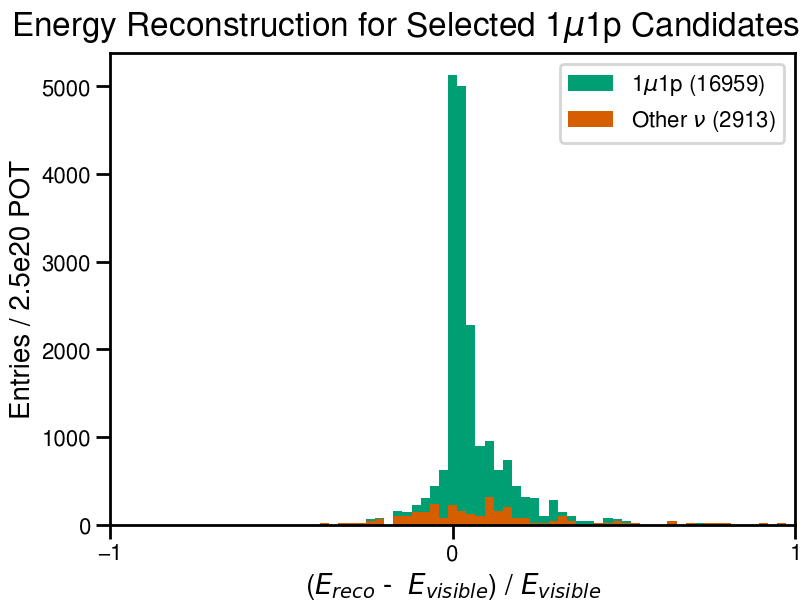
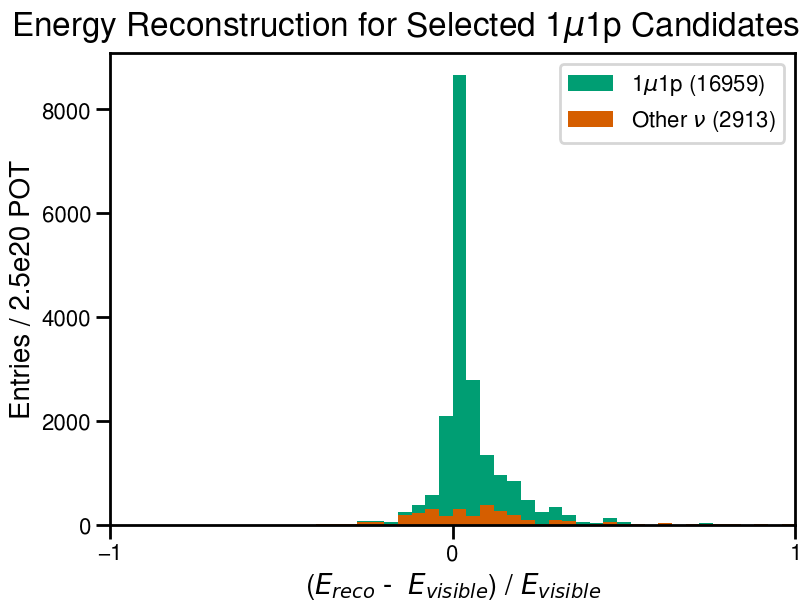
Updated reconstructed energy plots to break N proton category into 1 proton and 2+ protons

diff --git a/analysis.C b/analysis.C
@@ -30,17 +30,19 @@ void analysis()
     spectra.add_spectrum1d("sCountPrimaries", Binning::Simple(20, 0, 20), kCountPrimaries);
     spectra.add_spectrum1d("sCountParticlesTruth", Binning::Simple(20, 0, 20), kCountParticlesTruth);
     spectra.add_spectrum1d("sCountPrimariesTruth", Binning::Simple(20, 0, 20), kCountPrimariesTruth);
-    spectra.add_spectrum1d("sEnergy_1mu1p_signal_bias", Binning::Simple(75,-1,1), kEnergy_1mu1p_signal_bias);
-    spectra.add_spectrum1d("sEnergy_1mu1p_othernu_bias", Binning::Simple(75,-1,1), kEnergy_1mu1p_othernu_bias);
-    spectra.add_spectrum1d("sEnergy_1mu1p_cosmic_bias", Binning::Simple(75,-1,1), kEnergy_1mu1p_cosmic_bias);
-    spectra.add_spectrum1d("sEnergy_1muNp_signal_bias", Binning::Simple(75,-1,1), kEnergy_1muNp_signal_bias);
-    spectra.add_spectrum1d("sEnergy_1muNp_othernu_bias", Binning::Simple(75,-1,1), kEnergy_1muNp_othernu_bias);
-    spectra.add_spectrum1d("sEnergy_1muNp_cosmic_bias", Binning::Simple(75,-1,1), kEnergy_1muNp_cosmic_bias);
+    spectra.add_spectrum1d("sEnergy_1mu1p_signal_bias", Binning::Simple(50,-1,1), kEnergy_1mu1p_signal_bias);
+    spectra.add_spectrum1d("sEnergy_1mu1p_othernu_bias", Binning::Simple(50,-1,1), kEnergy_1mu1p_othernu_bias);
+    spectra.add_spectrum1d("sEnergy_1mu1p_cosmic_bias", Binning::Simple(50,-1,1), kEnergy_1mu1p_cosmic_bias);
+    spectra.add_spectrum1d("sEnergy_1muNp_1p_signal_bias", Binning::Simple(50,-1,1), kEnergy_1muNp_1p_signal_bias);
+    spectra.add_spectrum1d("sEnergy_1muNp_Np_signal_bias", Binning::Simple(50,-1,1), kEnergy_1muNp_Np_signal_bias);
+    spectra.add_spectrum1d("sEnergy_1muNp_othernu_bias", Binning::Simple(50,-1,1), kEnergy_1muNp_othernu_bias);
+    spectra.add_spectrum1d("sEnergy_1muNp_cosmic_bias", Binning::Simple(50,-1,1), kEnergy_1muNp_cosmic_bias);
 
-    spectra.add_spectrum1d("sNuEnergy_1mu1p_signal_bias", Binning::Simple(75,-1,1), kNuEnergy_1mu1p_signal_bias);
-    spectra.add_spectrum1d("sNuEnergy_1mu1p_othernu_bias", Binning::Simple(75,-1,1), kNuEnergy_1mu1p_othernu_bias);
-    spectra.add_spectrum1d("sNuEnergy_1muNp_signal_bias", Binning::Simple(75,-1,1), kNuEnergy_1muNp_signal_bias);
-    spectra.add_spectrum1d("sNuEnergy_1muNp_othernu_bias", Binning::Simple(75,-1,1), kNuEnergy_1muNp_othernu_bias);
+    spectra.add_spectrum1d("sNuEnergy_1mu1p_signal_bias", Binning::Simple(50,-1,1), kNuEnergy_1mu1p_signal_bias);
+    spectra.add_spectrum1d("sNuEnergy_1mu1p_othernu_bias", Binning::Simple(50,-1,1), kNuEnergy_1mu1p_othernu_bias);
+    spectra.add_spectrum1d("sNuEnergy_1muNp_1p_signal_bias", Binning::Simple(50,-1,1), kNuEnergy_1muNp_1p_signal_bias);
+    spectra.add_spectrum1d("sNuEnergy_1muNp_Np_signal_bias", Binning::Simple(50,-1,1), kNuEnergy_1muNp_Np_signal_bias);
+    spectra.add_spectrum1d("sNuEnergy_1muNp_othernu_bias", Binning::Simple(50,-1,1), kNuEnergy_1muNp_othernu_bias);
 
     /**
      * Spectra (2D) for counting selection statistics by interaction categorization (efficiency).

diff --git a/include/analysis.h b/include/analysis.h
@@ -82,13 +82,15 @@ namespace ana
     VARDLP_BIAS(kEnergy_1mu1p_signal_bias,vars::visible_energy,vars::visible_energy,cuts::signal_1mu1p,cuts::all_1mu1p_cut);
     VARDLP_BIAS(kEnergy_1mu1p_othernu_bias,vars::visible_energy,vars::visible_energy,cuts::other_nu_1mu1p,cuts::all_1mu1p_cut);
     VARDLP_BIAS(kEnergy_1mu1p_cosmic_bias,vars::visible_energy,vars::visible_energy,cuts::cosmic,cuts::all_1mu1p_cut);
-    VARDLP_BIAS(kEnergy_1muNp_signal_bias,vars::visible_energy,vars::visible_energy,cuts::signal_1muNp,cuts::all_1muNp_cut);
+    VARDLP_BIAS(kEnergy_1muNp_1p_signal_bias,vars::visible_energy,vars::visible_energy,cuts::signal_1mu1p,cuts::all_1muNp_cut);
+    VARDLP_BIAS(kEnergy_1muNp_Np_signal_bias,vars::visible_energy,vars::visible_energy,cuts::signal_1muNp_Nnot1,cuts::all_1muNp_cut);
     VARDLP_BIAS(kEnergy_1muNp_othernu_bias,vars::visible_energy,vars::visible_energy,cuts::other_nu_1muNp,cuts::all_1muNp_cut);
     VARDLP_BIAS(kEnergy_1muNp_cosmic_bias,vars::visible_energy,vars::visible_energy,cuts::cosmic,cuts::all_1muNp_cut);
 
     VARDLP_BIAS(kNuEnergy_1mu1p_signal_bias,vars::neutrino_energy,vars::visible_energy,cuts::signal_1mu1p,cuts::all_1mu1p_cut);
     VARDLP_BIAS(kNuEnergy_1mu1p_othernu_bias,vars::neutrino_energy,vars::visible_energy,cuts::other_nu_1mu1p,cuts::all_1mu1p_cut);
-    VARDLP_BIAS(kNuEnergy_1muNp_signal_bias,vars::neutrino_energy,vars::visible_energy,cuts::signal_1muNp,cuts::all_1muNp_cut);
+    VARDLP_BIAS(kNuEnergy_1muNp_1p_signal_bias,vars::neutrino_energy,vars::visible_energy,cuts::signal_1mu1p,cuts::all_1muNp_cut);
+    VARDLP_BIAS(kNuEnergy_1muNp_Np_signal_bias,vars::neutrino_energy,vars::visible_energy,cuts::signal_1muNp_Nnot1,cuts::all_1muNp_cut);
     VARDLP_BIAS(kNuEnergy_1muNp_othernu_bias,vars::neutrino_energy,vars::visible_energy,cuts::other_nu_1muNp,cuts::all_1muNp_cut);
 
     // Variables for match validation.

diff --git a/include/cuts.h b/include/cuts.h
@@ -292,6 +292,15 @@ namespace cuts
         bool signal_1muNp(const T & interaction) { return topological_1muNp_cut<T>(interaction) && neutrino(interaction); }
 
     /**
+     * Define the true 1muNp interaction classification (N > 1 strictly).
+     * @tparam T the type of interaction (true or reco).
+     * @param interaction to select on.
+     * @return true if the interaction is a 1muNp (N > 1) neutrino interaction.
+     */
+    template<class T>
+        bool signal_1muNp_Nnot1(const T & interaction) { return !topological_1mu1p_cut(interaction) && topological_1muNp_cut<T>(interaction) && neutrino(interaction); }
+
+    /**
      * Define the true "other neutrino" interaction classification (1mu1p).
      * @tparam T the type of interaction (true or reco).
      * @param interaction to select on.
